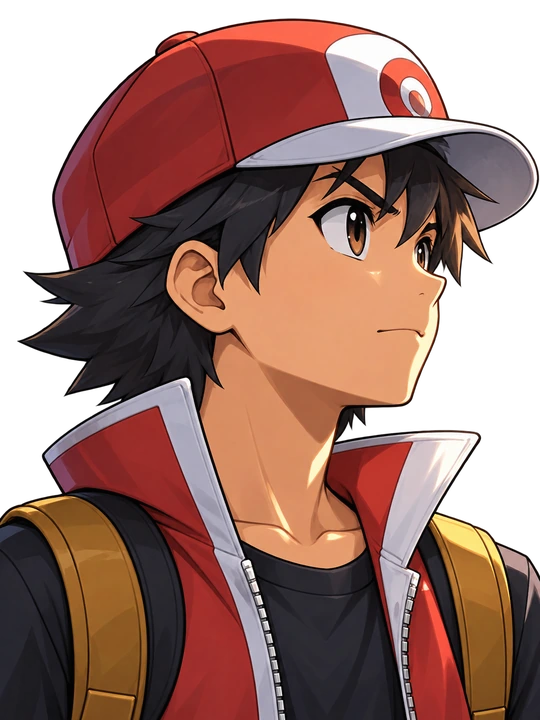
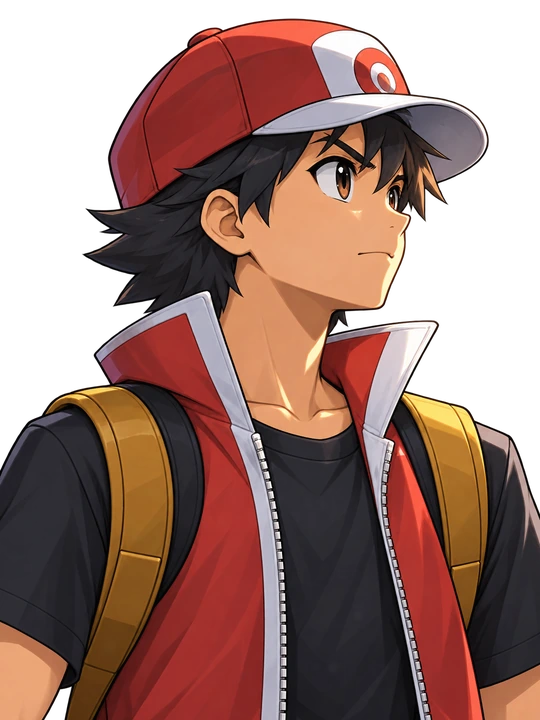
Entrée des Dresseurs, art itération 4 : Arène v3, bustes poitrine, lancer d'Hugo, Ball et traînée
Revue de Codex sur le comparatif v3 (tools/art/entree_dresseurs.py) :
- décor pewter_gym_roche_v3 (vue de trois-quarts, escalier décentré, colonnes et torches à
  gauche, sol circulaire brillant) à côté des v2 ; le sol commence vers y ≈ 515/1080 au droit
  de l'adversaire (Codex n'est pas descendu plus haut en deux essais) : ancres conseillées
  foe_feet [1559, 560], horizon ≈ 515 ;
- bustes pierre.webp et hero.webp repeints en buste poitrine (tête dans les 38 % du haut,
  épaules, col et gilet / veste visibles dans la partie non rognée) ;
- gamin_lancer : bras projeté vers le joueur, main ouverte (pose repeinte, échelle de la pose
  debout gardée) ;
- fx/ball_trail.webp (traînée blanche effilée, bout épais à gauche) et fx/ball.webp (256 px) ;
- poses de lancer sur une toile élargie si le bras dépasse (même hauteur, même échelle, milieu
  des pieds au centre) : le jeu centre en x et prend l'échelle de la pose debout ; les poses
  debout remplissent de nouveau leur toile (Pierre 0,758 au lieu de 0,615).
Planche et montage de contrôle mis à jour.

diff --git a/tools/art/entree_dresseurs.py b/tools/art/entree_dresseurs.py
@@ -44,6 +44,7 @@ REFS = [
 	(M3, (560, 0, 1844, 260), "ref_banderole_rouge.png", 1),
 	(M3, (0, 560, 1180, 853), "ref_banderole_bleue.png", 1),
 	(M3, (770, 240, 1080, 580), "ref_vs.png", 2),
+	(M2, (1000, 195, 1250, 270), "ref_ball.png", 4),
 ]
 
 # Images jointes par génération (maquettes entières d'abord, puis agrandissements).
@@ -58,11 +59,19 @@ JOINTES = {
 	"ED_JOUEUR_RETOUCHE": [ART / "ED_JOUEUR_r2.png"],
 	"ED_DECOR_ROUTE3": [M1, M2],
 	"ED_DECOR_ARENE": [M3],
+	# Itération 4 (revue de Codex sur le comparatif v3).
+	"ED_DECOR_ARENE_V3": [M3],
+	"ED_BUSTE_PIERRE_V2": [M3, ENT / "ref_buste_pierre.png", ART / "ED_BUSTE_PIERRE_r1.png"],
+	"ED_BUSTE_KEVIN_V2": [M3, ENT / "ref_buste_kevin.png", ART / "ED_BUSTE_KEVIN_r1.png"],
+	"ED_HUGO_LANCER_V2": [M2, ENT / "ref_hugo_lancer.png", ENT / "gamin_lancer_actuel.png"],
+	"ED_BALL_FX": [M2, ENT / "ref_ball.png"],
 }
 # Décors v2 : composition retenue → deux tuiles repeintes en plus grand (recette de
 # tools/art/combat_decors/preparer_decor.py, manifeste tools/art/combat_decors/decors.json).
 DECORS = {"ROUTE3": ("ED_DECOR_ROUTE3_r1.png", "ED_TUILE_ROUTE3"),
-	"ARENE": ("ED_DECOR_ARENE_r1.png", "ED_TUILE_ARENE")}
+	"ARENE": ("ED_DECOR_ARENE_r1.png", "ED_TUILE_ARENE"),
+	# Itération 4 : Arène v3, vue de trois-quarts (r2 retenue : r1 restait frontale).
+	"ARENE_V3": ("ED_DECOR_ARENE_V3_r2.png", "ED_TUILE_ARENE")}
 PORTIONS = {"TL": (0, 0, 1000, 852), "TR": (846, 0, 1846, 852)}
 
 
@@ -102,7 +111,13 @@ def generer(ident: str, rev: str = "1", sans_jointes: bool = False) -> None:
 RETENUS = {
 	"ED_HUGO": "1", "ED_PIERRE": "1", "ED_JOUEUR_RETOUCHE": "1", "ED_BUSTE_PIERRE": "1",
 	"ED_BUSTE_KEVIN": "1", "ED_BANDEROLES": "1", "ED_EMBLEME": "1",
+	# Itération 4 : bustes cadrés poitrine, lancer d'Hugo plus projeté, Ball et traînée.
+	"ED_BUSTE_PIERRE_V2": "1", "ED_BUSTE_KEVIN_V2": "1", "ED_HUGO_LANCER_V2": "1", "ED_BALL_FX": "1",
 }
+# Lancer d'Hugo v2 : une seule pose, peinte un peu plus grande que la planche d'origine ; ramenée
+# à l'échelle de la pose debout (largeur de la casquette mesurée sur les deux images).
+HUGO_LANCER_V2_ECHELLE = 0.9
+FX = SPR / "fx"
 
 
 def source(ident: str) -> Image.Image:
@@ -156,6 +171,36 @@ def mettre_en_toile(images: list[Image.Image], toile: tuple[int, int], marge_hau
 		sorties.append(t)
 	print(f"  échelle {echelle:.3f}")
 	return sorties
+
+
+def _centre_pieds(image: Image.Image, part: float = 0.06) -> float:
+	"""x du milieu des pieds : milieu de l'étendue des pixels opaques des `part` lignes du bas."""
+	a = np.asarray(image)[..., 3] > 96
+	bas = a[int(a.shape[0] * (1 - part)):]
+	xs = np.where(bas.any(0))[0]
+	return (xs[0] + xs[-1]) / 2.0 if len(xs) else image.width / 2.0
+
+
+def poses_en_toile(debout: Image.Image, lancer: Image.Image, toile: tuple[int, int],
+		marge_haut: int) -> tuple[Image.Image, Image.Image]:
+	"""Itération 4 : le jeu met la pose debout à la hauteur voulue (pixels visibles) et donne la
+	MÊME échelle à la pose de lancer, centrée en x, pieds au bas. La pose debout remplit donc sa
+	toile (512 × 768) ; la pose de lancer garde la même échelle et le milieu des pieds au centre,
+	sur une toile de même hauteur ÉLARGIE si le bras dépasse (le bras n'est jamais rogné)."""
+	w, h = toile
+	echelle = min(1.0, (h - marge_haut) / debout.height, (w - 8) / debout.width,
+		(h - marge_haut) / lancer.height)
+	sorties = []
+	for i in (debout, lancer):
+		r = i.resize((round(i.width * echelle), round(i.height * echelle)), Image.LANCZOS)
+		pieds = _centre_pieds(r)
+		demi = max(pieds, r.width - pieds) + 4
+		largeur = max(w, int(np.ceil(demi)) * 2)
+		t = Image.new("RGBA", (largeur, h), (0, 0, 0, 0))
+		t.alpha_composite(r, (round(largeur / 2 - pieds), h - r.height))
+		sorties.append(t)
+	print(f"  échelle {echelle:.3f}, toiles {sorties[0].size} et {sorties[1].size}")
+	return sorties[0], sorties[1]
 
 
 def _webp(image: Image.Image, chemin: Path, qualite: int = 92) -> None:
@@ -225,19 +270,43 @@ def embleme(largeur: int = 720) -> Image.Image:
 
 
 def exporter() -> None:
-	for ident, nom, toile, marge in (("ED_HUGO", "gamin", (512, 768), 16),
-			("ED_PIERRE", "pierre", (512, 768), 16), ("ED_JOUEUR_RETOUCHE", "dos_hero", (640, 960), 16)):
+	print("ED_HUGO + ED_HUGO_LANCER_V2")
+	debout = poses("ED_HUGO")[0]
+	lancer = poses("ED_HUGO_LANCER_V2")[0]
+	lancer = lancer.resize((round(lancer.width * HUGO_LANCER_V2_ECHELLE),
+		round(lancer.height * HUGO_LANCER_V2_ECHELLE)), Image.LANCZOS)
+	debout, lancer = poses_en_toile(debout, lancer, (512, 768), 16)
+	_webp(debout, SPR / "gamin.webp")
+	_webp(lancer, SPR / "gamin_lancer.webp")
+	for ident, nom, toile, marge in (("ED_PIERRE", "pierre", (512, 768), 16), ("ED_JOUEUR_RETOUCHE", "dos_hero", (640, 960), 16)):
 		print(ident)
-		debout, lancer = mettre_en_toile(poses(ident), toile, marge)
+		debout, lancer = poses_en_toile(*poses(ident), toile, marge)
 		_webp(debout, SPR / f"{nom}.webp")
 		_webp(lancer, SPR / f"{nom}_lancer.webp")
-	_webp(buste("ED_BUSTE_PIERRE"), VS / "pierre.webp")
+	_webp(buste("ED_BUSTE_PIERRE_V2"), VS / "pierre.webp")
 	# Buste du joueur au cadrage de la maquette 3 (pas encore de chemin dans la fiche §3).
-	_webp(buste("ED_BUSTE_KEVIN"), VS / "hero.webp")
+	_webp(buste("ED_BUSTE_KEVIN_V2"), VS / "hero.webp")
 	rouge, bleue = banderoles()
 	_webp(rouge, VS / "banderole_rouge.webp")
 	_webp(bleue, VS / "banderole_bleue.webp")
 	_webp(embleme(), VS / "emblem.webp")
+	trainee, ball = fx()
+	_webp(trainee, FX / "ball_trail.webp")
+	_webp(ball, FX / "ball.webp")
+
+
+def fx() -> tuple[Image.Image, Image.Image]:
+	"""Traînée (bande du haut, pointe à droite, bout épais à gauche) et Ball (bande du bas)."""
+	im = _nettoyer(source("ED_BALL_FX"))
+	a = np.asarray(im)[..., 3] > 24
+	lignes = a.any(1)
+	milieu = im.height // 2
+	haut = im.crop((0, 0, im.width, milieu))
+	bas = im.crop((0, milieu, im.width, im.height))
+	trainee = haut.crop(haut.getchannel("A").point(lambda v: 255 if v > 4 else 0).getbbox())
+	ball = _rogne(bas)
+	ball = ball.resize((256, round(ball.height * 256 / ball.width)), Image.LANCZOS)
+	return trainee, ball
 
 
 # ---------------------------------------------------------------- planche et montage de contrôle
@@ -322,9 +391,14 @@ def recompositions() -> list[Image.Image]:
 	_ombre(f, (1312, 466), 150)
 	_poser(f, SPR / "gamin_lancer.webp", (1300, 472), 250)
 	_poser(f, SPR / "dos_hero.webp", (388, 830), 490)
+	t = Image.open(FX / "ball_trail.webp").convert("RGBA")
+	t = t.resize((200, max(1, round(t.height * 200 / t.width))), Image.LANCZOS)
+	f.alpha_composite(t, (1040, 214))
+	b = Image.open(FX / "ball.webp").convert("RGBA").resize((46, 46), Image.LANCZOS)
+	f.alpha_composite(b, (1012, 211))
 	scenes.append(f)
 	# 3. VS : Pierre debout, joueur de dos, banderoles, bustes, emblème.
-	f = _decor("pewter_gym_roche_v2", taille)
+	f = _decor("pewter_gym_roche_v3", taille)
 	_ombre(f, (1312, 562), 110)
 	_poser(f, SPR / "pierre.webp", (1312, 566), 232)
 	_poser(f, SPR / "dos_hero.webp", (520, 640), 345)
@@ -352,7 +426,7 @@ def planches() -> None:
 	for i, (maquette, scene) in enumerate(zip((M1, M2, M3), scenes)):
 		y = i * (lh + entete) + entete
 		for j, (img, leg) in enumerate(((Image.open(maquette).convert("RGB"), "maquette validée"),
-				(scene.convert("RGB"), "lot d'art pilote (décor v2 + sprites, mêmes places et échelles)"))):
+				(scene.convert("RGB"), "lot d'art pilote (décors v2 et v3, sprites aux mêmes places et échelles)"))):
 			x = marge + j * (lw + marge)
 			montage.paste(img.resize((lw, lh), Image.LANCZOS), (x, y))
 			d.text((x, y - 26), f"{noms[i]} — {leg}", font=_fonte(20), fill=(235, 220, 170))
@@ -363,8 +437,9 @@ def planches() -> None:
 	elements = [SPR / f for f in ("gamin.webp", "gamin_lancer.webp", "pierre.webp",
 		"pierre_lancer.webp", "dos_hero.webp", "dos_hero_lancer.webp")]
 	elements += [VS / f for f in ("pierre.webp", "hero.webp", "emblem.webp")]
+	elements += [FX / "ball.webp", FX / "ball_trail.webp"]
 	cellule, haut = 300, 420
-	planche = Image.new("RGB", (cellule * 9 + 20, 1400), (30, 34, 40))
+	planche = Image.new("RGB", (cellule * 11 + 20, 1400), (30, 34, 40))
 	d = ImageDraw.Draw(planche)
 	damier = Image.new("RGBA", (cellule - 10, haut), (0, 0, 0, 0))
 	dd = ImageDraw.Draw(damier)
@@ -395,7 +470,7 @@ def planches() -> None:
 		d.text((1320, y + 70), str(p.relative_to(RACINE / "assets")) + "  2048 × 300", font=_fonte(14),
 			fill=(220, 220, 220))
 		y += im.height + 20
-	for k, nom in enumerate(("route_3_roche_v2", "pewter_gym_roche_v2")):
+	for k, nom in enumerate(("route_3_roche_v2", "pewter_gym_roche_v2", "pewter_gym_roche_v3")):
 		im = Image.open(DECORS_V2 / f"{nom}_back.webp").convert("RGB")
 		im = im.resize((1300, 600), Image.LANCZOS).resize((640, 295), Image.LANCZOS)
 		x = 10 + k * 660
